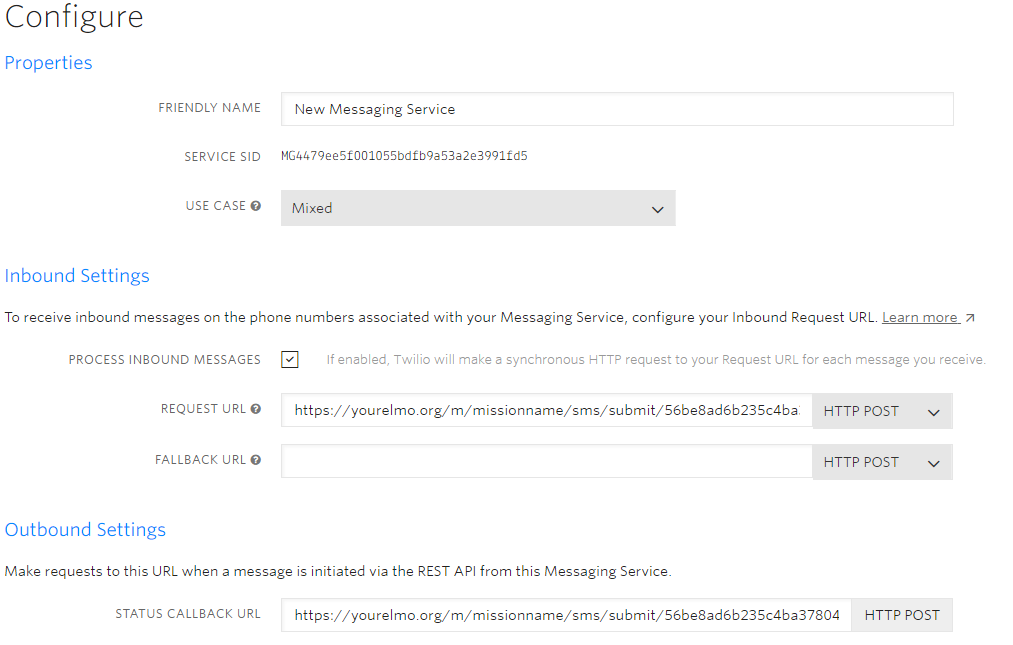
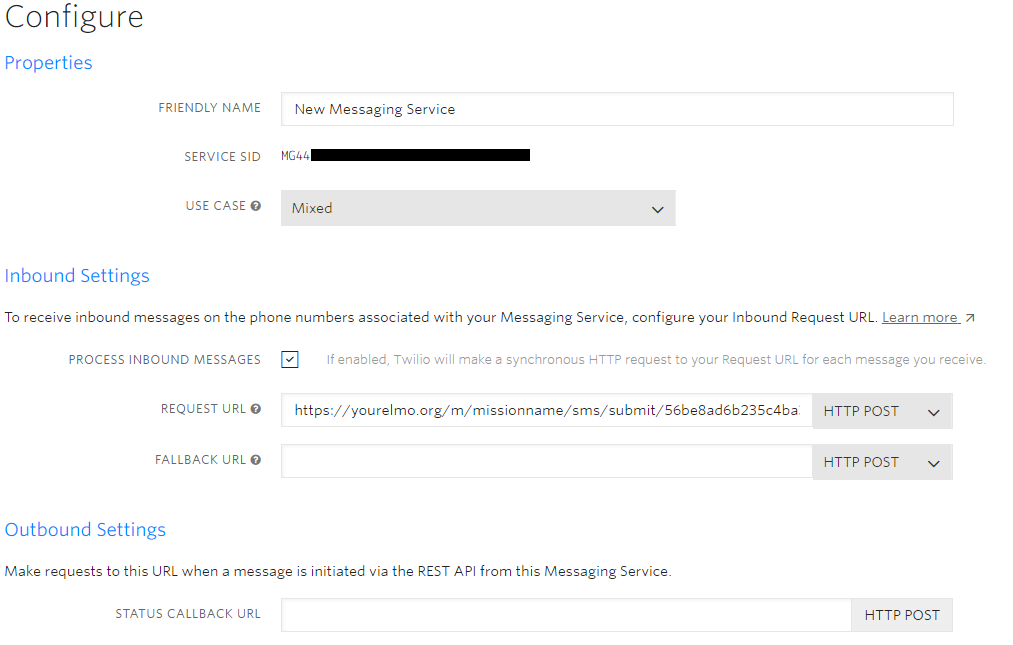
Change outbound settings for Twilio

Changed region(s): [[0.2754, 0.9302, 0.8263, 0.9612], [0.306, 0.2171, 0.5202, 0.2481]]

diff --git a/content/smssetup/smssetup.rst b/content/smssetup/smssetup.rst
@@ -36,7 +36,7 @@ You should now be able to see the device you have previously set up.
   :alt: Configure connections
 
 .. note ::
-  
+
   For more details check `Frontline documentation <https://frontlinecloud.zendesk.com/hc/en-us/articles/208115663-Creating-a-FrontlineSync-Connection-to-FrontlineCloud>`_.
 
 
@@ -132,7 +132,7 @@ Set up a Twilio phone number
 """"""""""""""""""""""""""""
 
 1. Click :fa:`ellipsis-h` on the left navigation to see the list of products and services.
-2. Select :fa:`hashtag` :guilabel:`Phone Numbers`. 
+2. Select :fa:`hashtag` :guilabel:`Phone Numbers`.
 
 .. image:: phone-number.png
    :alt: Create a new phone number
@@ -157,7 +157,7 @@ You need to create a new messaging service in order to forward all incoming SMSe
 5. Click :guilabel:`Create`.
 6. Under Inbound Settings, check :guilabel:`PROCESS INBOUND MESSAGES`.
 7. To get the :guilabel:`REQUEST URL`, get back to your NEMO/ELMO mission, click :guilabel:`Settings` then in the :guilabel:`Incoming SMS Token` section click :guilabel:`How do I use this?` and copy the URL that shows up in the dialog.
-8. Under Outbound Settings, set :guilabel:`STATUS CALLBACK URL` with the same URL used in the previous step.
+8. Outbound Settings should be left blank.
 
 At the end you should have a configuration similar to this one:
 
